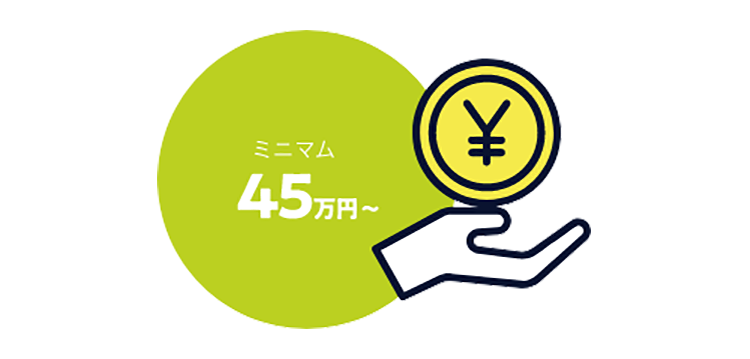
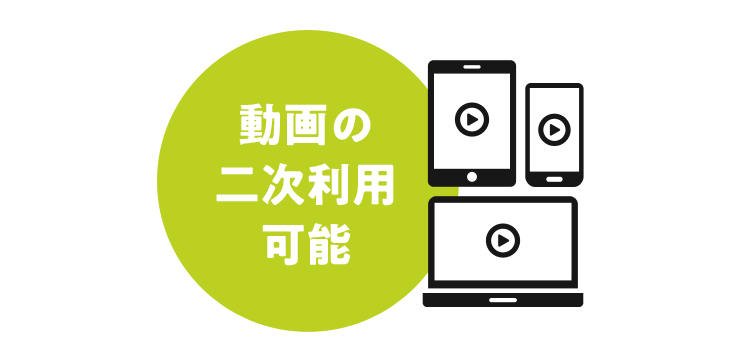
[修正] グッテレページ改修：二次利用に変更、作成事例追加、お試しプランの料金を変更

diff --git a/gutele/index.html b/gutele/index.html
@@ -90,8 +90,8 @@ gtag('config', 'UA-150519504-1');
                 <h3>ニュース番組的な編集が、<br>「自然で有用な情報」として伝わる！</h3>
             </li>
             <li>
-                <img src="resources/images/chara/img03.png" alt="">
-                <h3>45万円からお試しOK！<br>予算に応じてプラン選択可能！</h3>
+                <img src="resources/images/chara/img03.png" alt="動画の二次利用可能">
+                <h3>納品した動画は<br>無期限＆無料で二次利用可能！</h3>
             </li>
             <li>
                 <img src="resources/images/chara/img04.png" alt="">
@@ -156,6 +156,13 @@ gtag('config', 'UA-150519504-1');
                 希少性の高い情報として届けます</p>
             </li>
         </ul>
+        <aside class="check__sns">
+            <p>作成事例はこちらでチェック！</p>
+            <ul>
+                <li><a href="https://www.youtube.com/channel/UCSIAqshPTldKkaPw1Fj2-RA" target="_blank">グッテレYoutube<br class="brkSp">公式チャンネル</a></li>
+                <li><a href="https://www.facebook.com/gunosy.tv/" target="_blank">グッテレFacebook<br class="brkSp">公式アカウント</a></li>
+            </ul>
+        </aside>
         <p>この他にも様々なケースでご利用可能です</p>
         <a href="/contact/" target="_blank" class="contactBtn btn">今すぐ『グッテレ』に相談！</a>
     </section>
@@ -202,21 +209,19 @@ gtag('config', 'UA-150519504-1');
             <tbody>
                 <tr>
                     <th>再生保証回数</th>
-                    <td><b>15</b>万回</td>
+                    <td rowspan="3"><!--<b>15</b>万回-->詳しくは営業担当に<br>お問い合わせください</td>
                     <td><b>30</b>万回</td>
                     <td><b>75</b>万回</td>
                     <td><b>120</b>万回</td>
                 </tr>
                 <tr>
                     <th>視聴単価</th>
-                    <td><b>3.0</b>円</td>
                     <td><b>3.3</b>円</td>
                     <td><b>2.7</b>円</td>
                     <td><b>2.5</b>円</td>
                 </tr>
                 <tr>
                     <th>ご利用料金</th>
-                    <td><b>45</b>万円</td>
                     <td><b>100</b>万円</td>
                     <td><b>200</b>万円</td>
                     <td><b>300</b>万円</td>

diff --git a/gutele/resources/css/base.css b/gutele/resources/css/base.css
@@ -458,7 +458,40 @@ a.contactBtn.btn {
     line-height: 1.6;
     font-weight: bold;
 }
-.scene__list + p {
+.check__sns {
+    margin: 60px 0 80px;
+    text-align: center;
+}
+.check__sns p {
+    margin-bottom: .8em;
+    color: #E0DA41;
+    font-size: 30px;
+    font-weight: bold;
+}
+.check__sns li {
+    display: inline-block;
+    vertical-align: middle;
+}
+.check__sns li:nth-of-type(1) {
+    margin-right: 15px;
+}
+.check__sns li a {
+    display: block;
+    width: 388px;
+    height: 61px;
+    line-height: 60px;
+    background: #E0DA41;
+    box-shadow: 3px 3px 2px 0 rgba(0,0,0,.16);
+    color: #0D1031;
+    font-size: 20px;
+    font-weight: bold;
+    text-decoration: none;
+    transition: .5s;
+}
+.check__sns li a:hover {
+    opacity: .7;
+}
+.check__sns + p {
     margin-bottom: 25px;
     font-size: 20px;
     text-align: center;
@@ -564,6 +597,7 @@ a.contactBtn.btn {
     border: solid 2px #0d1031;
     background: #fff;
     text-align: center;
+    line-height: 1.6;
 }
 .plan__tbl th,.plan__tbl td {
     width: calc( 100% / 6 );
@@ -1007,7 +1041,28 @@ smaller than 750px
     .scene__list p {
         font-size: 18px;
     }
-    .scene__list + p {
+    .check__sns {
+        margin: 60px 0 100px;
+    }
+    .check__sns p {
+        margin-bottom: 1em;
+        font-size: 36px;
+    }
+    .check__sns li:nth-of-type(1) {
+        margin-right: 20px;
+    }
+    .check__sns li a {
+        width: 310px;
+        height: auto;
+        padding: .5em 0;
+        line-height: 1.4;
+        font-size: 24px;
+        transition: inherit;
+    }
+    .check__sns li a:hover {
+        opacity: 1;
+    }
+    .check__sns + p {
         margin-bottom: 35px;
         font-size: 28px;
     }
